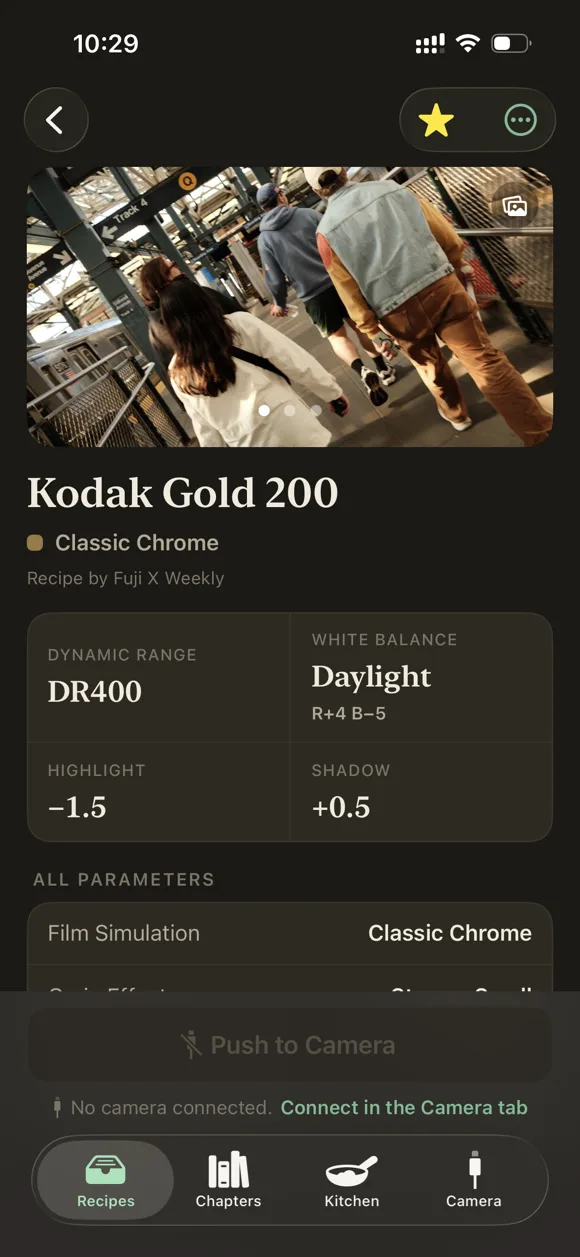
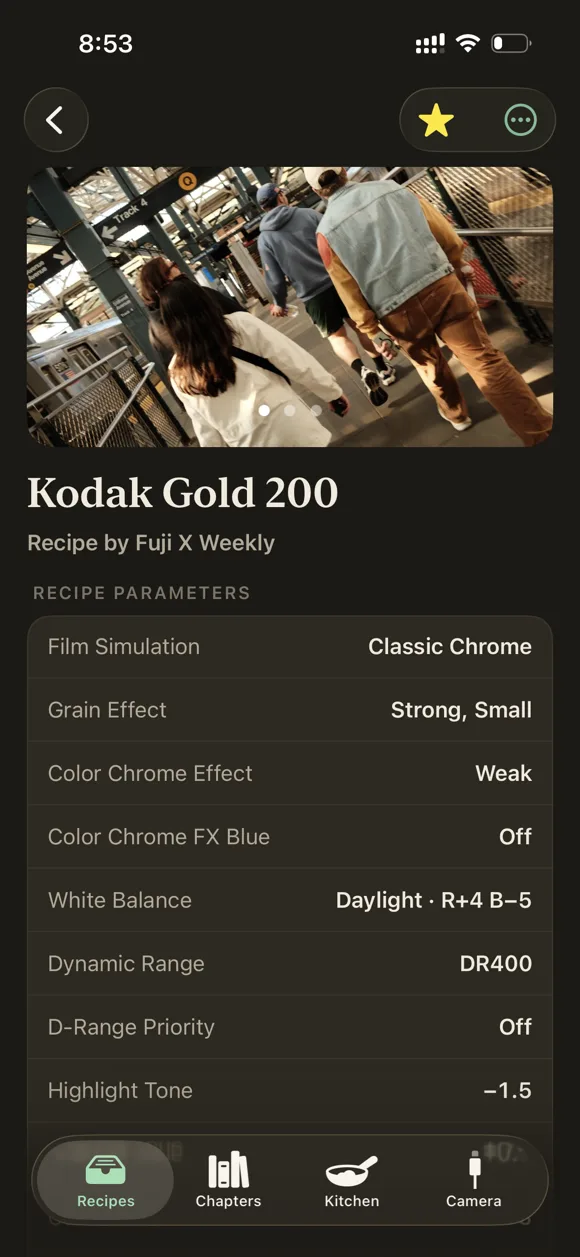
Update hero screenshots with latest app screens
Recipe detail now shows the full parameters list instead of the
condensed stat cards; recipes and chapters screens refreshed to match.

diff --git a/index.html b/index.html
@@ -454,7 +454,7 @@ a:hover{color:var(--gold);}
                    srcset="img/detail.png 580w, img/detail@1.5x.png 870w"
                    sizes="(max-width:700px) min(300px, calc(100vw - 40px)), (max-width:960px) calc((100vw - 104px) / 3), 290px"
                    width="580" height="1257" loading="lazy" decoding="async"
-                   alt="Recipe detail screen showing sample photos, every parameter, and a Push to Camera button.">
+                   alt="Recipe detail screen for Kodak Gold 200 showing a sample photo and the full list of recipe parameters, including film simulation, grain, color chrome effect, white balance, and dynamic range.">
             </picture>
           </div>
           <figcaption>Every parameter, pushed to the camera</figcaption>
